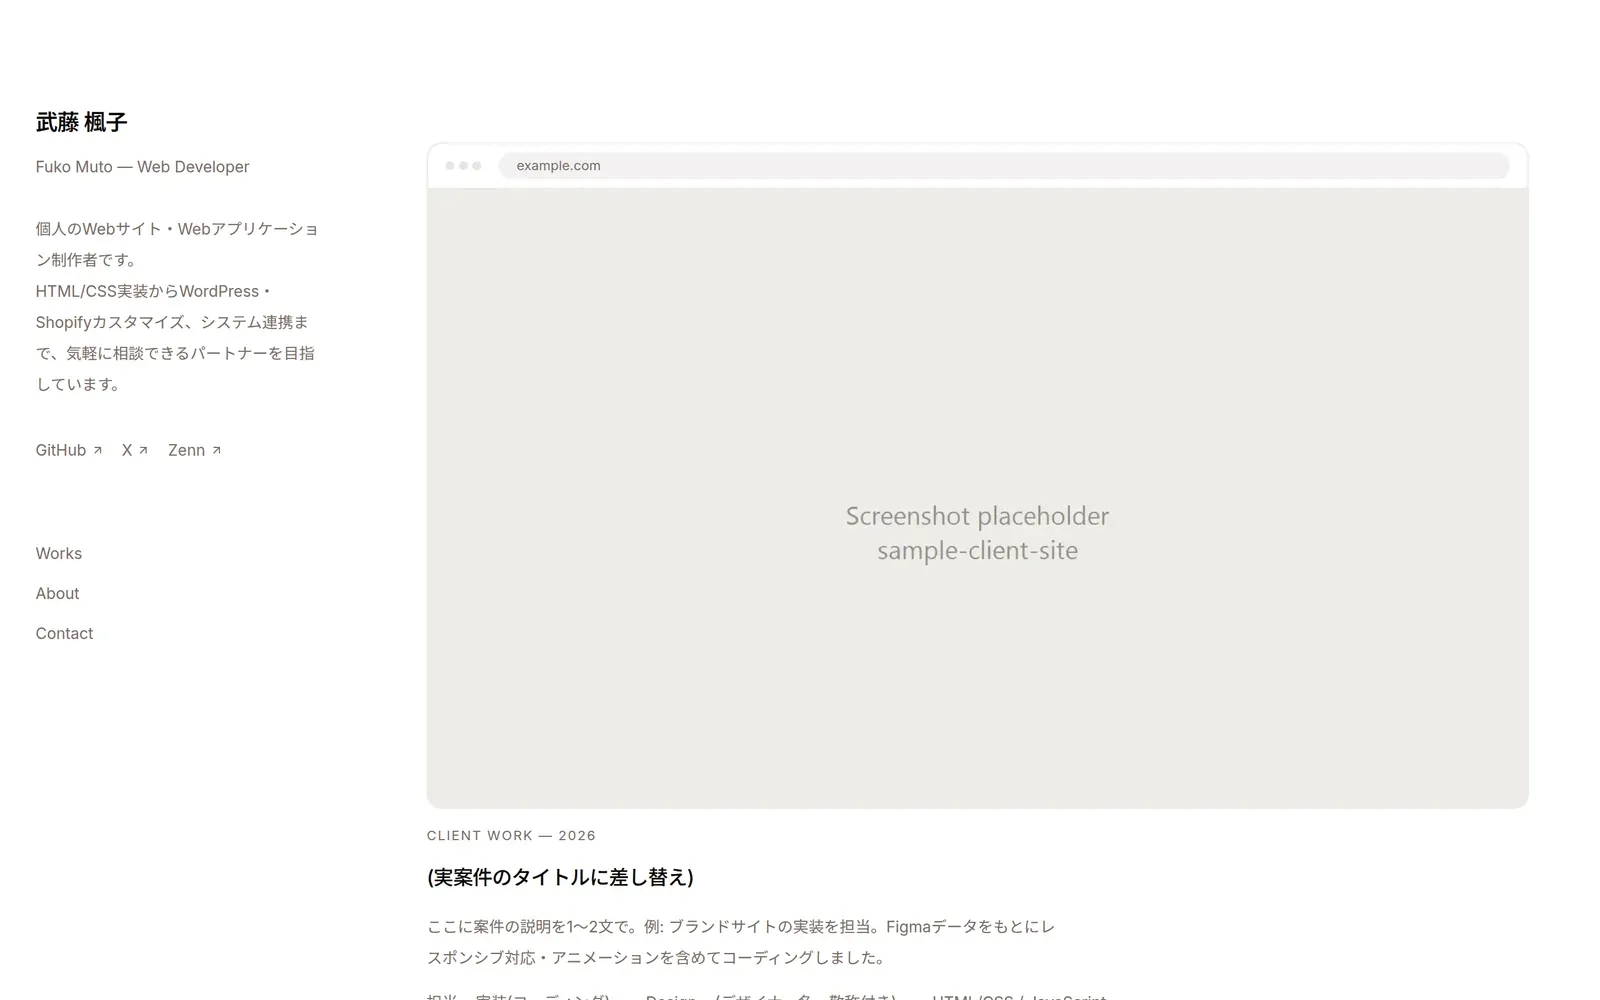
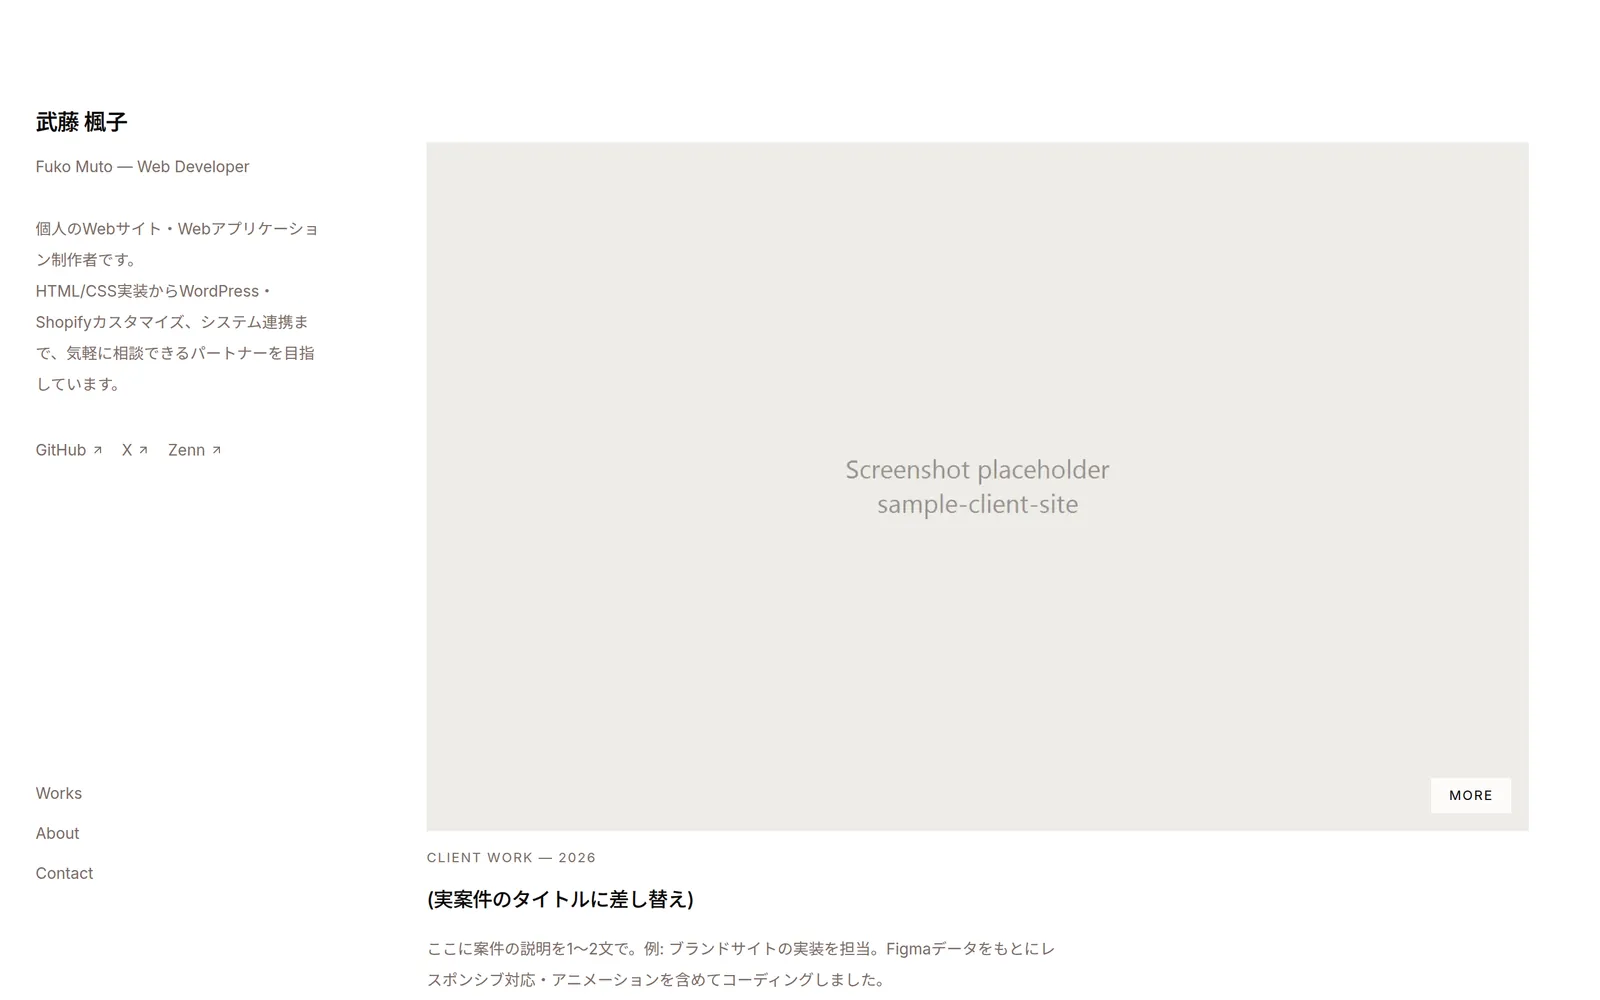
本サイトの一覧・モーダル用スクショを今の画面で撮り直す

diff --git a/lib/works.ts b/lib/works.ts
@@ -99,19 +99,19 @@ export const works: Work[] = [
         variant: "desktop",
         src: "/works/portfolio-site.webp",
         width: 1600,
-        height: 3657,
+        height: 3701,
       },
       {
         variant: "tablet",
         src: "/works/portfolio-site-tablet.webp",
         width: 768,
-        height: 3163,
+        height: 3169,
       },
       {
         variant: "mobile",
         src: "/works/portfolio-site-mobile.webp",
         width: 390,
-        height: 3098,
+        height: 3057,
       },
     ],
     tags: ["Next.js", "Tailwind CSS", "Framer Motion"],
